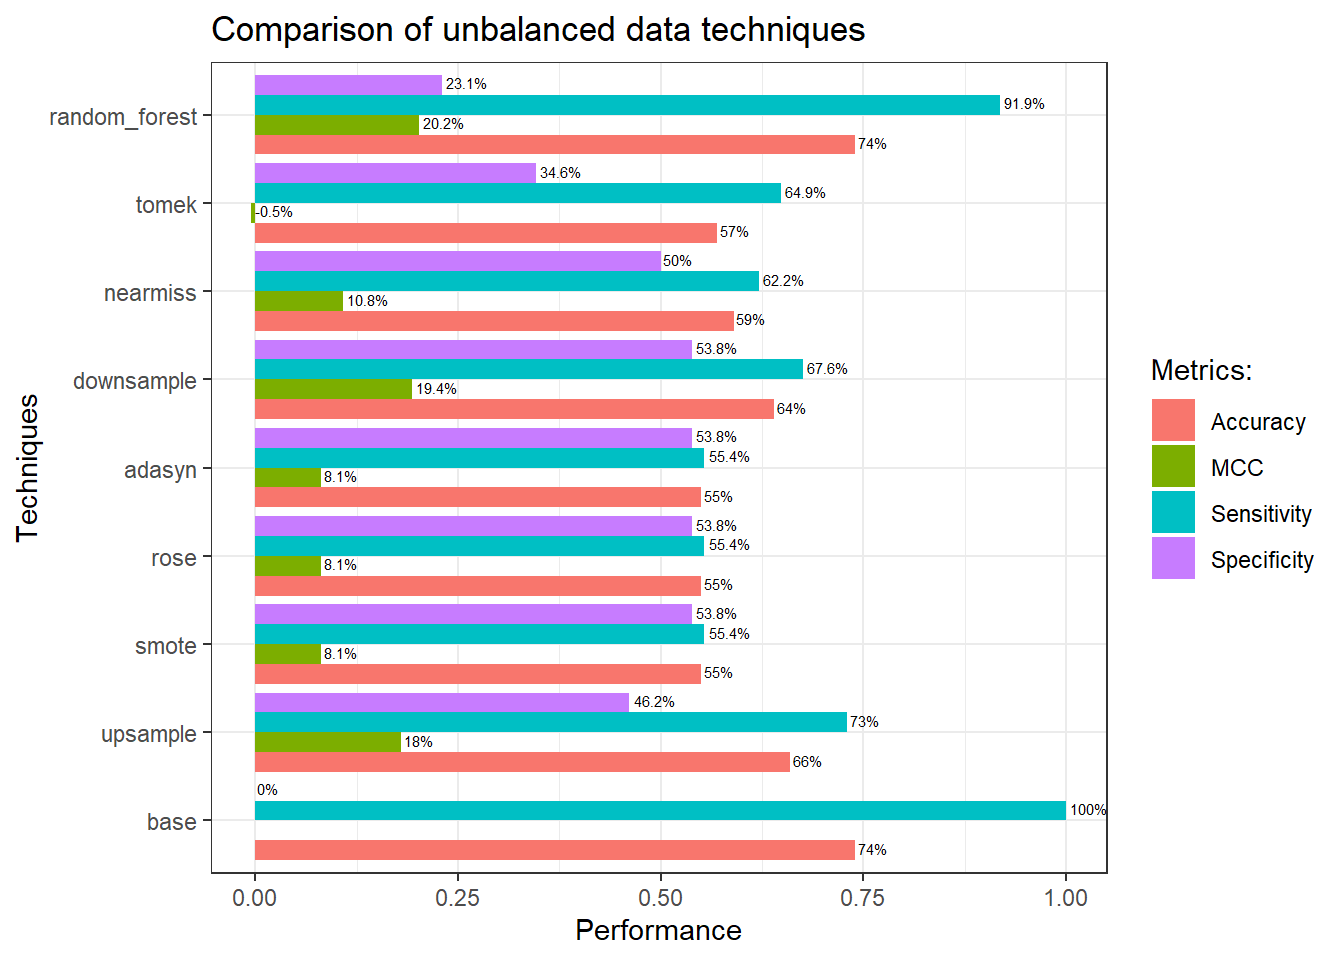
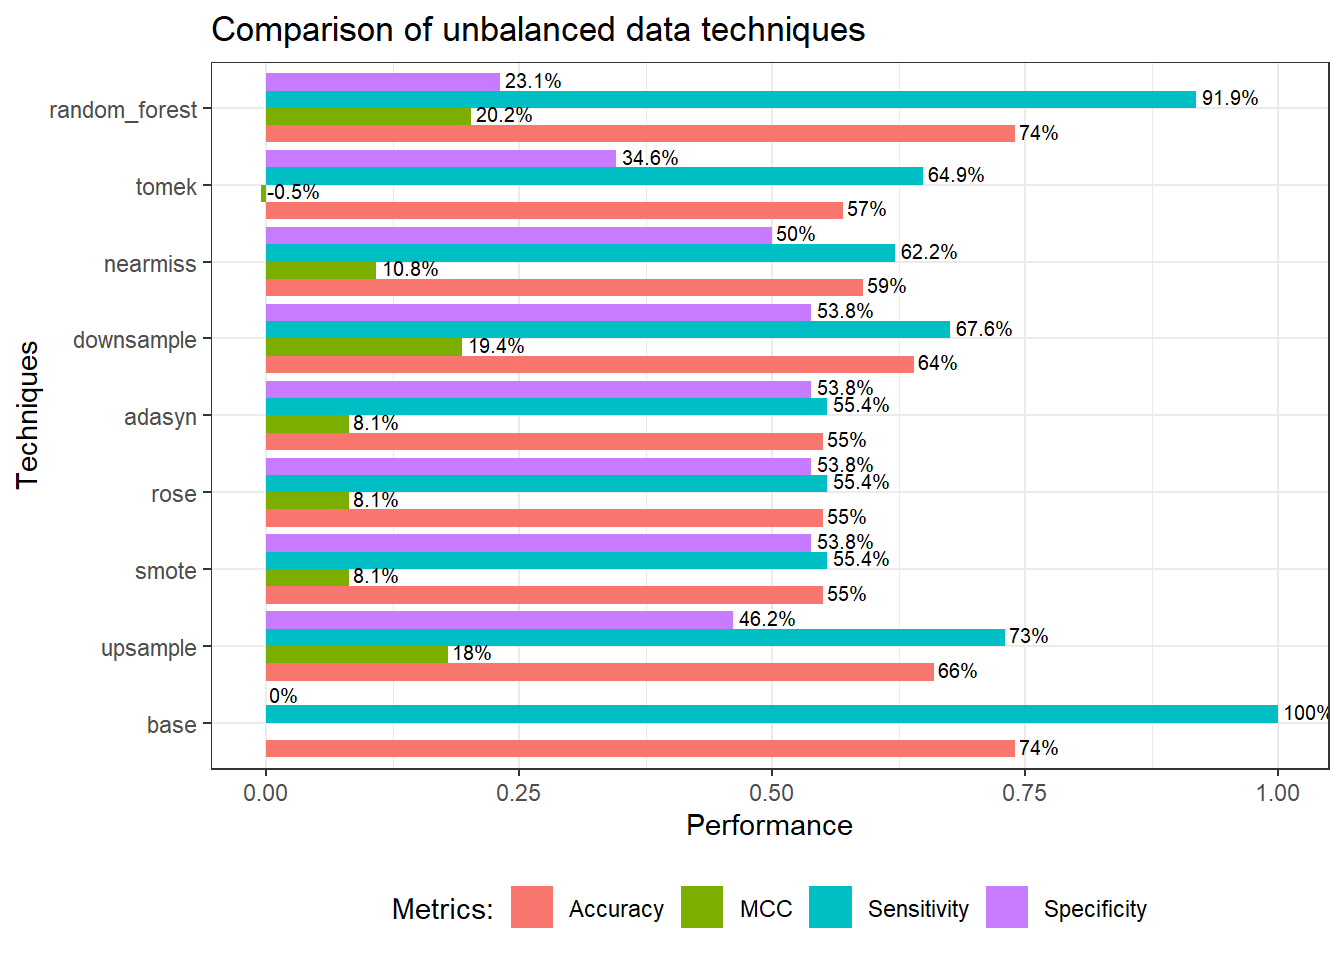
probably last edit on imbalanced post

diff --git a/content/post/2021-05-14-handling-imbalanced-data/index.en.html b/content/post/2021-05-14-handling-imbalanced-data/index.en.html
@@ -36,7 +36,7 @@ projects: []
 <div id="the-problem" class="section level2">
 <h2>The problem</h2>
 <p>What’s the problem with the imbalanced data?<br />
-Firstly, a predictive model of an imbalanced is bias towards the majority class. The minority class becomes harder to predict as there a few data from this class. So, the detection rate for a minority class will be very low.
+Firstly, a predictive model of an imbalanced data is bias towards the majority class. The minority class becomes harder to predict as there are few data from this class. So, the detection rate for a minority class will be very low.
 Secondly, accuracy is not a good measure in this case. We may get a good accuracy,but in reality the accuracy does not reflect the unequal distribution of the data. This is known as an <a href="https://en.wikipedia.org/wiki/Accuracy_paradox">accuracy paradox</a>. Imagine we have 90% of data belong to the majority class, while the remaining 10% belong to the minority class. So, just by predicting all data as a majority class, the model can easily get 90% accuracy.</p>
 </div>
 <div id="handling-approach" class="section level2">
@@ -685,16 +685,17 @@ result %&gt;%
   theme_bw() +
   coord_flip() +
   geom_text(aes(label = paste0(round(value*100, digits = 1), &quot;%&quot;)), 
-            position = position_dodge(0.9), vjust = 0.3, size = 2, hjust = -0.1) +
+            position = position_dodge(0.9), vjust = 0.3, size = 2.7, hjust = -0.1) +
   labs(title = &quot;Comparison of unbalanced data techniques&quot;, 
        x = &quot;Techniques&quot;, 
        y = &quot;Performance&quot;) +
   scale_fill_discrete(name = &quot;Metrics:&quot;,
-                      labels = c(&quot;Accuracy&quot;, &quot;MCC&quot;, &quot;Sensitivity&quot;, &quot;Specificity&quot;))</code></pre>
+                      labels = c(&quot;Accuracy&quot;, &quot;MCC&quot;, &quot;Sensitivity&quot;, &quot;Specificity&quot;)) +
+  theme(legend.position = &quot;bottom&quot;)</code></pre>
 </details>
 <p><img src="{{< blogdown/postref >}}index.en_files/figure-html/summary-measure2-1.png" width="672" /></p>
 <p>We can see from the above plot, the base model (decision tree) clearly has a low detection rate for a minority class (specificity). All methods able to increase the specificity, while sacrificing the accuracy and sensitivity. As mentioned earlier, accuracy is not a good metrics for this kind of model (ie; accuracy paradox). MCC on the other hand, takes into account all values of confusion matrix; true positive, false positive, true negative, and false negative. Hence, MCC is more informative compared to accuracy (and F score, which has not been included in the plot, for the sake of simplicity).</p>
-<p>A more balanced model probably ADASYN or tomek approaches based on MCC, specificity, and sensitivity.</p>
+<p>A more balanced model probably downsample approach based on MCC, specificity, and sensitivity. However, this does not mean that downsample technique is the best as I believes each technique behaves differently from one data to another.</p>
 <p>References:</p>
 <ol style="list-style-type: decimal">
 <li><a href="https://themis.tidymodels.org/reference/index.html" class="uri">https://themis.tidymodels.org/reference/index.html</a><br />
